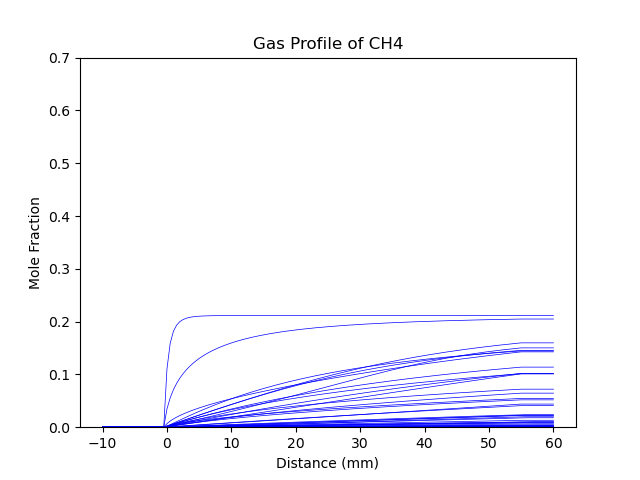
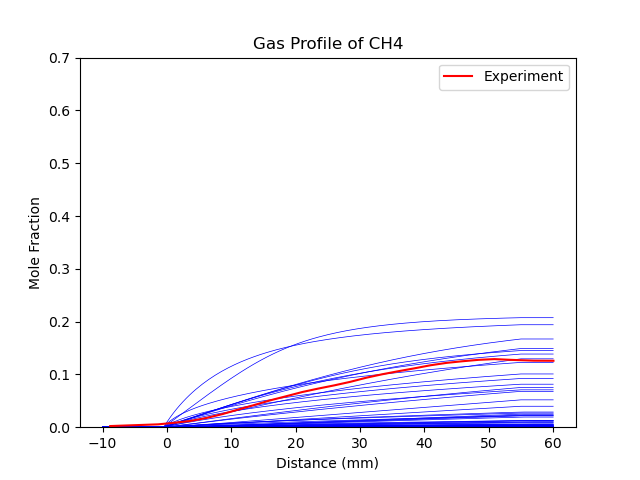
Added the extracted experimental data so the model plots

diff --git a/scripts/modeling/plotting_methods.py b/scripts/modeling/plotting_methods.py
@@ -12,8 +12,7 @@ def plot_CO2_profiles (df, mechanism_number,figure_number):
     filtered = df[(df["Distance (mm)"] >= min_dist) & (df["Distance (mm)"] <= max_dist)]    
     plt.plot(filtered['Distance (mm)'].transform(lambda x: x - 35), filtered['CO2(2)'],
              'b',
-             linewidth=0.5, 
-             label=f'{mechanism_number}')
+             linewidth=0.5)
 
     plt.title('Gas Profile of CO2')
     plt.xlabel('Distance (mm)')
@@ -30,8 +29,7 @@ def plot_H2_profiles (df, mechanism_number,figure_number):
     filtered = df[(df["Distance (mm)"] >= min_dist) & (df["Distance (mm)"] <= max_dist)]    
     plt.plot(filtered['Distance (mm)'].transform(lambda x: x - 35), filtered['H2(4)'],
              'b',
-             linewidth=0.5, 
-             label=f'{mechanism_number}')
+             linewidth=0.5)
 
     plt.title('Gas Profile of H2')
     plt.xlabel('Distance (mm)')
@@ -48,8 +46,7 @@ def plot_Ar_profiles (df, mechanism_number,figure_number):
     filtered = df[(df["Distance (mm)"] >= min_dist) & (df["Distance (mm)"] <= max_dist)]    
     plt.plot(filtered['Distance (mm)'].transform(lambda x: x - 35), filtered['Ar'],
              'b',
-             linewidth=0.5, 
-             label=f'{mechanism_number}')
+             linewidth=0.5)
 
     plt.title('Gas Profile of Ar')
     plt.xlabel('Distance (mm)')
@@ -66,8 +63,7 @@ def plot_H2O_profiles (df, mechanism_number,figure_number):
     filtered = df[(df["Distance (mm)"] >= min_dist) & (df["Distance (mm)"] <= max_dist)]    
     plt.plot(filtered['Distance (mm)'].transform(lambda x: x - 35), filtered['H2O(3)'],
              'b',
-             linewidth=0.5, 
-             label=f'{mechanism_number}')
+             linewidth=0.5)
 
     plt.title('Gas Profile of H2O')
     plt.xlabel('Distance (mm)')
@@ -84,8 +80,7 @@ def plot_CH4_profiles (df, mechanism_number,figure_number):
     filtered = df[(df["Distance (mm)"] >= min_dist) & (df["Distance (mm)"] <= max_dist)]    
     plt.plot(filtered['Distance (mm)'].transform(lambda x: x - 35), filtered['CH4(1)'],
              'b',
-             linewidth=0.5, 
-             label=f'{mechanism_number}')
+             linewidth=0.5)
 
     plt.title('Gas Profile of CH4')
     plt.xlabel('Distance (mm)')
@@ -102,12 +97,12 @@ def plot_CO_profiles (df, mechanism_number,figure_number):
     filtered = df[(df["Distance (mm)"] >= min_dist) & (df["Distance (mm)"] <= max_dist)]    
     plt.plot(filtered['Distance (mm)'].transform(lambda x: x - 35), filtered['CO(5)'],
              'b',
-             linewidth=0.5, 
-             label=f'{mechanism_number}')
+             linewidth=0.5)
 
     plt.title('Gas Profile of CO')
     plt.xlabel('Distance (mm)')
     plt.ylabel('Mole Fraction')
     plt.ylim([0, 0.02])
+    
 
 

diff --git a/scripts/modeling/simulate_100_mechanisms.py b/scripts/modeling/simulate_100_mechanisms.py
@@ -8,8 +8,10 @@ import matplotlib.pyplot as plt
 
 
 
-#get a random list of 100 mechanims to try
+#get a random list of 100 mechanims to try, use a specific seed to make it reproducible
+random.seed(33)
 mechanism_numbers = random.sample(range(0,5000),100)
+print(mechanism_numbers)
 
 progress = 0
 error_number = 0
@@ -49,6 +51,54 @@ print()
 print('Percent Complete: 100%')
 
 print(f'error rate of {error_number / len(mechanism_numbers)}')
+
+#add the experimental results for the CO2 profile
+
+df = pd.read_csv('data/CO2.csv', names=['X', 'Y'])
+plt.figure(1)
+plt.plot(df['X'], df['Y'].transform(lambda x: x / 100), 'r', label='Experiment')
+plt.legend()
+plt.savefig('results/Gas_Profile_CO2.png')
+
+#add the experimental results for the H2 profile
+
+df = pd.read_csv('data/H2.csv', names=['X', 'Y'])
+plt.figure(2)
+plt.plot(df['X'], df['Y'].transform(lambda x: x / 100), 'r', label='Experiment')
+plt.legend()
+plt.savefig('results/Gas_Profile_H2.png')
+
+#add the experimental results for the Ar profile
+
+df = pd.read_csv('data/Ar.csv', names=['X', 'Y'])
+plt.figure(3)
+plt.plot(df['X'], df['Y'].transform(lambda x: x / 100), 'r', label='Experiment')
+plt.legend()
+plt.savefig('results/Gas_Profile_Ar.png')
+
+#add the experimental results for the H20 profile
+
+df = pd.read_csv('data/H20.csv', names=['X', 'Y'])
+plt.figure(4)
+plt.plot(df['X'], df['Y'].transform(lambda x: x / 100), 'r', label='Experiment')
+plt.legend()
+plt.savefig('results/Gas_Profile_H2O.png')
+
+#add the experimental results for the CH4 profile
+
+df = pd.read_csv('data/CH4.csv', names=['X', 'Y'])
+plt.figure(5)
+plt.plot(df['X'], df['Y'].transform(lambda x: x / 100), 'r', label='Experiment')
+plt.legend()
+plt.savefig('results/Gas_Profile_CH4.png')
+
+#add the experimental results for the CO profile
+
+df = pd.read_csv('data/CO.csv', names=['X', 'Y'])
+plt.figure(6)
+plt.plot(df['X'], df['Y'].transform(lambda x: x / 100), 'r', label='Experiment')
+plt.legend()
+plt.savefig('results/Gas_Profile_CO.png')
 
 plt.show()
 

diff --git a/scripts/modeling/Simulation_Methods.py b/scripts/modeling/Simulation_Methods.py
@@ -125,7 +125,7 @@ def profile_simulation(yaml_file):
             upstream.phase.TDY = r.phase.TDY
             sim.reinitialize()
             
-            sim.advance_to_steady_state()
+            sim.advance_to_steady_state(max_steps=2e4)
             # sim.solve_steady()
         
         # write the gas mass fractions and surface coverages vs. distance
